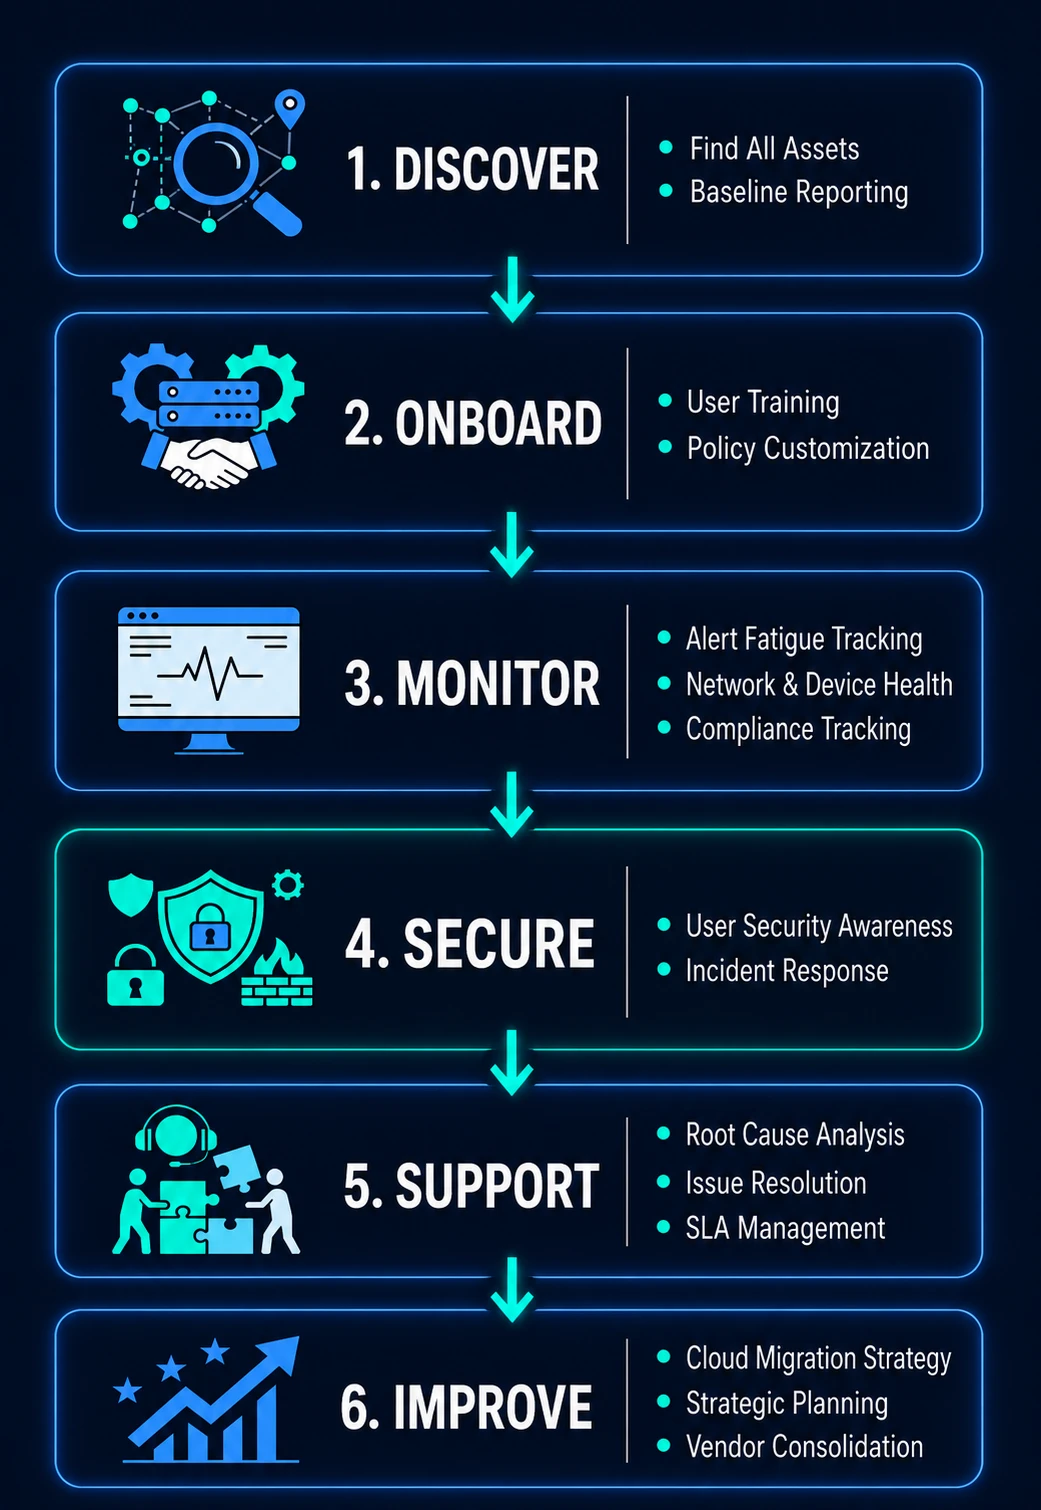
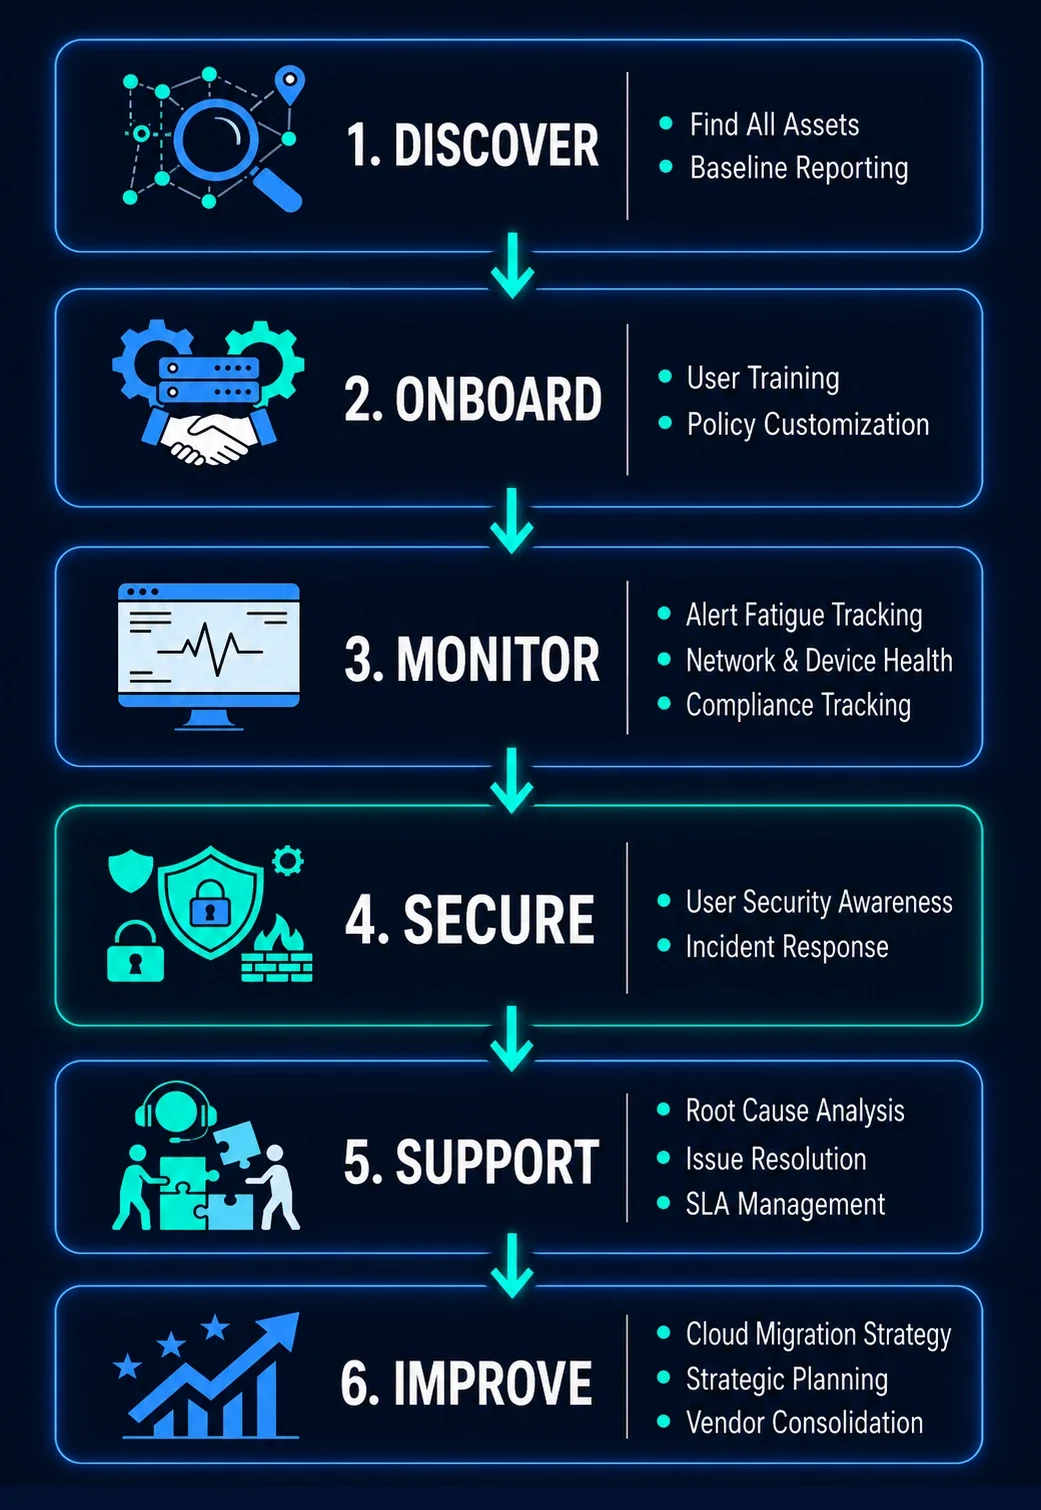
Tuned Homepage Poster
Tune homepage managed IT rhythm poster

diff --git a/assets/css/site.css b/assets/css/site.css
@@ -383,9 +383,9 @@ body.is-test-host .theme-lab{display:flex}
 
 
 .hero-rhythm-visual{
-  margin-top:18px;
-  padding:12px;
-  border-radius:26px;
+  margin:24px 0 -14px;
+  padding:5px;
+  border-radius:28px;
   background:
     radial-gradient(circle at 18% 10%, rgba(91,158,255,.14), transparent 36%),
     linear-gradient(145deg, rgba(255,255,255,.12), rgba(255,255,255,.03)),
@@ -393,19 +393,22 @@ body.is-test-host .theme-lab{display:flex}
   backdrop-filter:blur(8px);
   -webkit-backdrop-filter:blur(8px);
   box-shadow:0 18px 34px rgba(9,18,34,.24);
-  flex:1 1 430px;
-  min-height:430px;
-  display:flex;
+  width:100%;
+  max-width:none;
+  min-height:0;
+  max-height:none;
+  display:block;
 }
 .hero-rhythm-image{
   display:block;
   width:100%;
-  height:100%;
+  height:auto;
   min-height:0;
   max-height:none;
-  object-fit:cover;
+  object-fit:contain;
   object-position:center center;
-  border-radius:18px;
+  border-radius:20px;
+  background:rgba(8,18,32,.48);
   border:1px solid rgba(126,190,255,.26);
   box-shadow:0 16px 30px rgba(8,18,32,.26), 0 0 28px rgba(91,158,255,.10);
 }
@@ -497,7 +500,7 @@ body.is-test-host .theme-lab{display:flex}
 .trust-grid{grid-template-columns:repeat(4, minmax(0,1fr))}
 .trust-pill{
   padding:18px 20px;
-  border-radius:18px;
+  border-radius:20px;
   border:1px solid var(--border);
   background:var(--surface-2);
   text-align:center;
@@ -672,13 +675,18 @@ section + .section::before{
   font-weight:800;
   margin-bottom:10px;
 }
-.operations-confidence-list{
+
+.operations-confidence-note{
+  color:var(--muted);
+  max-width:72ch;
+}
+.operations-confidence-list-deprecated{
   list-style:none;
   display:grid;
   grid-template-columns:repeat(3,minmax(0,1fr));
   gap:10px;
 }
-.operations-confidence-list li{
+.operations-confidence-list-deprecated li{
   display:flex;
   align-items:center;
   gap:10px;
@@ -689,7 +697,7 @@ section + .section::before{
   background:var(--surface-4);
   font-size:.92rem;
 }
-.operations-confidence-list li span{
+.operations-confidence-list-deprecated li span{
   width:9px;
   height:9px;
   border-radius:50%;
@@ -812,14 +820,14 @@ html[data-theme="soft-light"] .form-status.is-error{color:#a62b2b}
   .hero-grid{padding:22px;grid-template-columns:1fr}
   .hero h1{max-width:none}
   .hero-rhythm-visual{
-    margin-top:14px;
-    padding:10px;
-    min-height:360px;
-    flex-basis:360px;
+    margin-top:16px;
+    width:100%;
+    max-width:520px;
+    padding:6px;
   }
   .hero-rhythm-image{
-    height:100%;
-    object-fit:cover;
+    height:auto;
+    object-fit:contain;
   }
   .theme-lab{width:100%;justify-content:space-between}
   .theme-lab button{flex:1}
@@ -950,7 +958,7 @@ html[data-theme="soft-light"] .form-status.is-error{color:#a62b2b}
 .field select,
 .field textarea{
   width:100%;
-  border-radius:18px;
+  border-radius:20px;
   border:1px solid var(--border);
   background:var(--surface-2);
   color:var(--text);
@@ -974,7 +982,7 @@ html[data-theme="soft-light"] .form-status.is-error{color:#a62b2b}
 .intake-note{
   margin-top:18px;
   padding:16px 18px;
-  border-radius:18px;
+  border-radius:20px;
   background:var(--surface-2);
   border:1px solid var(--border);
   color:var(--muted);
@@ -1108,7 +1116,7 @@ html[data-theme="soft-light"] .mobile-menu{background:rgba(255,255,255,.95)}
 .mobile-menu-actions{display:grid;gap:12px}
 .mobile-nav-links a{
   padding:16px 18px;
-  border-radius:18px;
+  border-radius:20px;
   background:var(--surface-4);
   border:1px solid var(--border);
   color:var(--text);
@@ -1220,7 +1228,7 @@ html[data-theme="soft-light"] .mobile-menu{background:rgba(255,255,255,.95)}
 .search-input-wrap input{
   flex:1;
   min-height:56px;
-  border-radius:18px;
+  border-radius:20px;
   border:1px solid var(--border);
   background:var(--surface-4);
   color:var(--text);
@@ -1364,7 +1372,7 @@ html[data-theme="soft-light"] .mobile-menu{background:rgba(255,255,255,.95)}
 }
 .accent-card{
   padding:16px;
-  border-radius:18px;
+  border-radius:20px;
   background:var(--surface-4);
   border:1px solid var(--border);
 }
@@ -1395,7 +1403,7 @@ html[data-theme="soft-light"] .mobile-menu{background:rgba(255,255,255,.95)}
 
 @media (max-width:860px){
   .accent-grid{grid-template-columns:1fr}
-  .operations-confidence-list{grid-template-columns:1fr}
+  .operations-confidence-list-deprecated{grid-template-columns:1fr}
   .summary-card::after,
   .service-side-panels .content-block::after{display:none}
   .service-lane-icon{
@@ -1434,7 +1442,7 @@ html[data-theme="soft-light"] .mobile-menu{background:rgba(255,255,255,.95)}
 .estimator-disclaimer{
   margin-top:14px;
   padding:14px 16px;
-  border-radius:18px;
+  border-radius:20px;
   background:var(--surface-4);
   border:1px solid var(--border);
 }
@@ -1537,7 +1545,7 @@ html[data-theme="soft-light"] .mobile-menu{background:rgba(255,255,255,.95)}
 .estimator-handoff-card .field textarea{min-height:110px}
 .estimator-empty{
   padding:16px 18px;
-  border-radius:18px;
+  border-radius:20px;
   background:var(--surface-4);
   border:1px dashed var(--border);
   color:var(--muted);

diff --git a/index.html b/index.html
@@ -109,7 +109,7 @@
 <li><span aria-hidden="true" class="pulse"></span>Built for small business realities</li>
 </ul>
 <div class="hero-rhythm-visual card" aria-label="Managed IT rhythm visual">
-<img alt="Managed IT rhythm showing Discover, Onboard, Monitor, Secure, Support, and Improve steps." class="hero-rhythm-image" decoding="async" loading="lazy" src="assets/media/managed-it-rhythm.webp"/>
+<img alt="Managed IT rhythm showing Discover, Onboard, Monitor, Secure, Support, and Improve stages." class="hero-rhythm-image" decoding="async" loading="lazy" src="assets/media/managed-it-rhythm.webp"/>
 </div>
 </div>
 <div class="hero-side">
@@ -166,21 +166,6 @@
 </div>
 </div>
 </div>
-</div>
-</div>
-</section>
-<section class="section operations-confidence-section" aria-label="Operations confidence">
-<div class="container">
-<div class="operations-confidence-band">
-<p class="operations-confidence-title">Operations confidence, built into the day-to-day</p>
-<ul class="operations-confidence-list">
-<li><span aria-hidden="true"></span>Security-first service stack</li>
-<li><span aria-hidden="true"></span>Backups monitored with recovery awareness</li>
-<li><span aria-hidden="true"></span>Updates and patch rhythms managed</li>
-<li><span aria-hidden="true"></span>Helpdesk-ready workflows for users</li>
-<li><span aria-hidden="true"></span>Local + remote support coverage</li>
-<li><span aria-hidden="true"></span>Built for practical small-business operations</li>
-</ul>
 </div>
 </div>
 </section>
